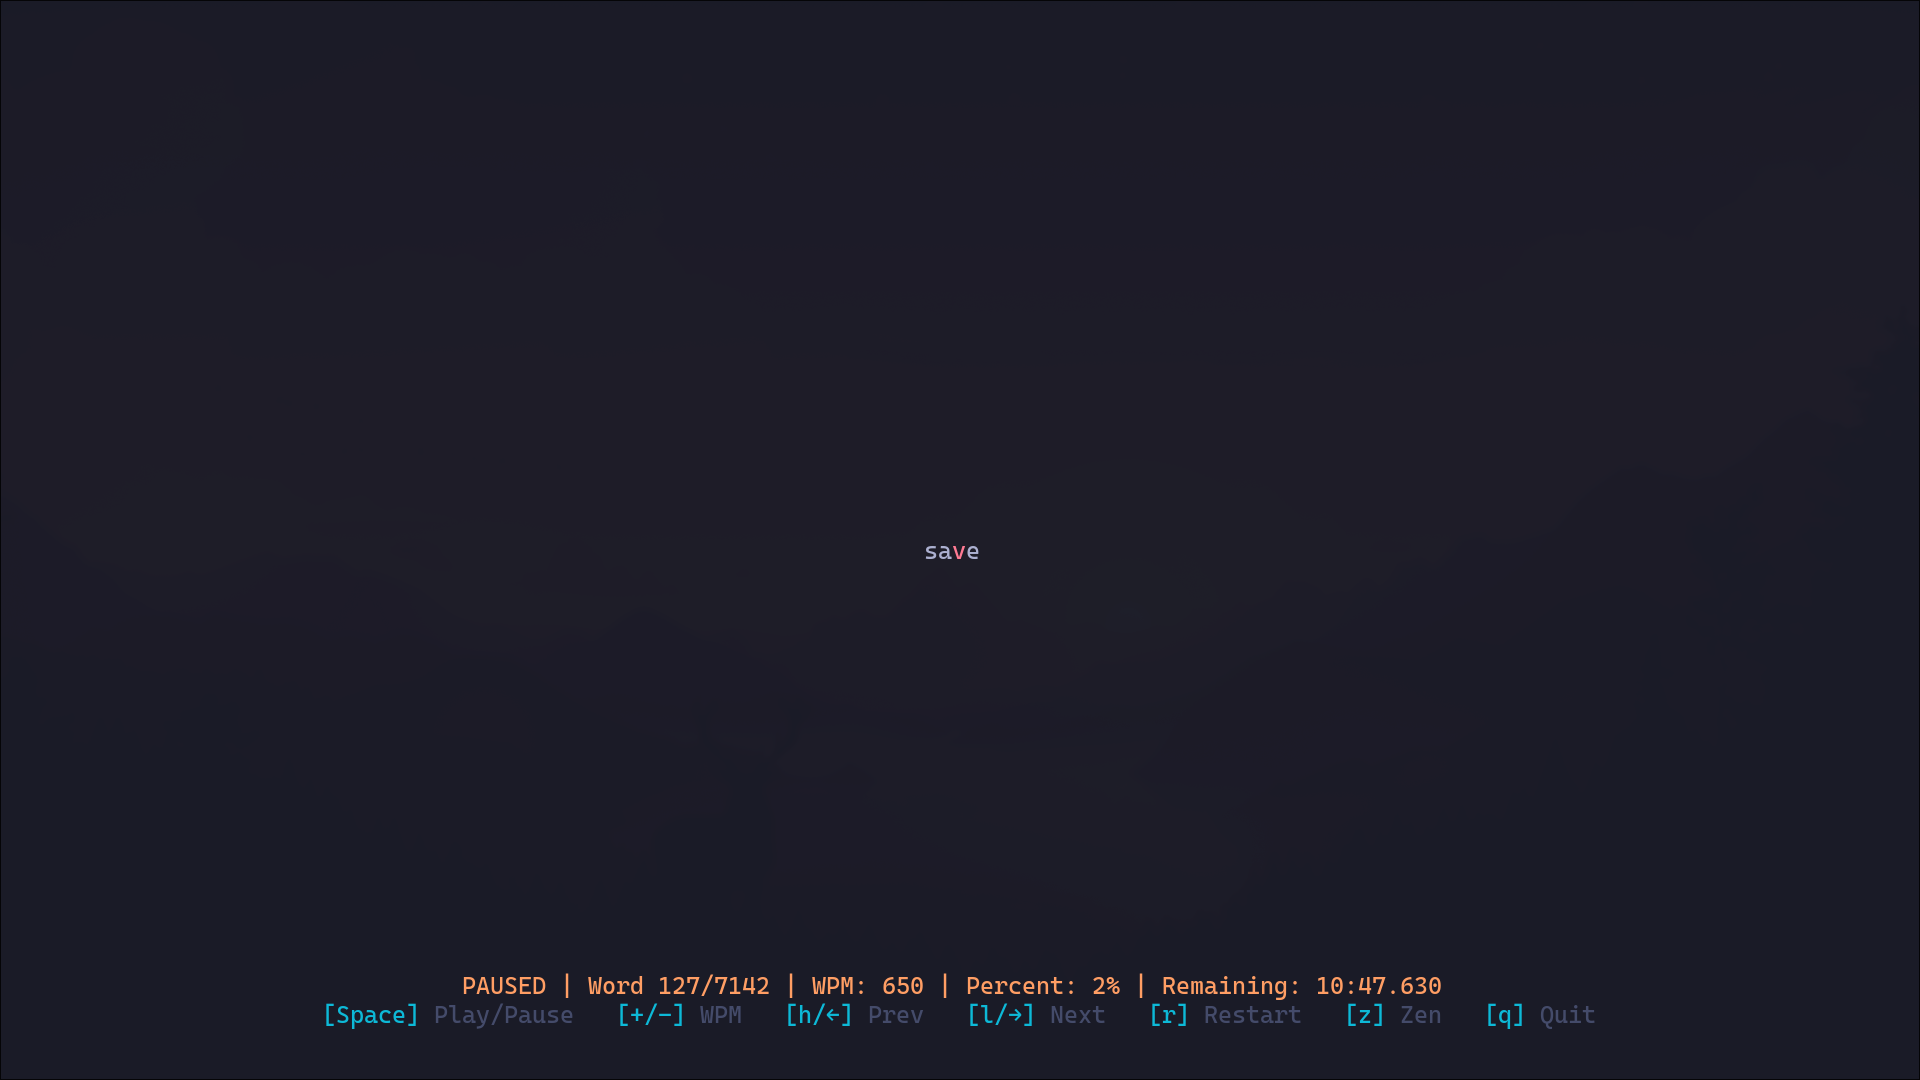
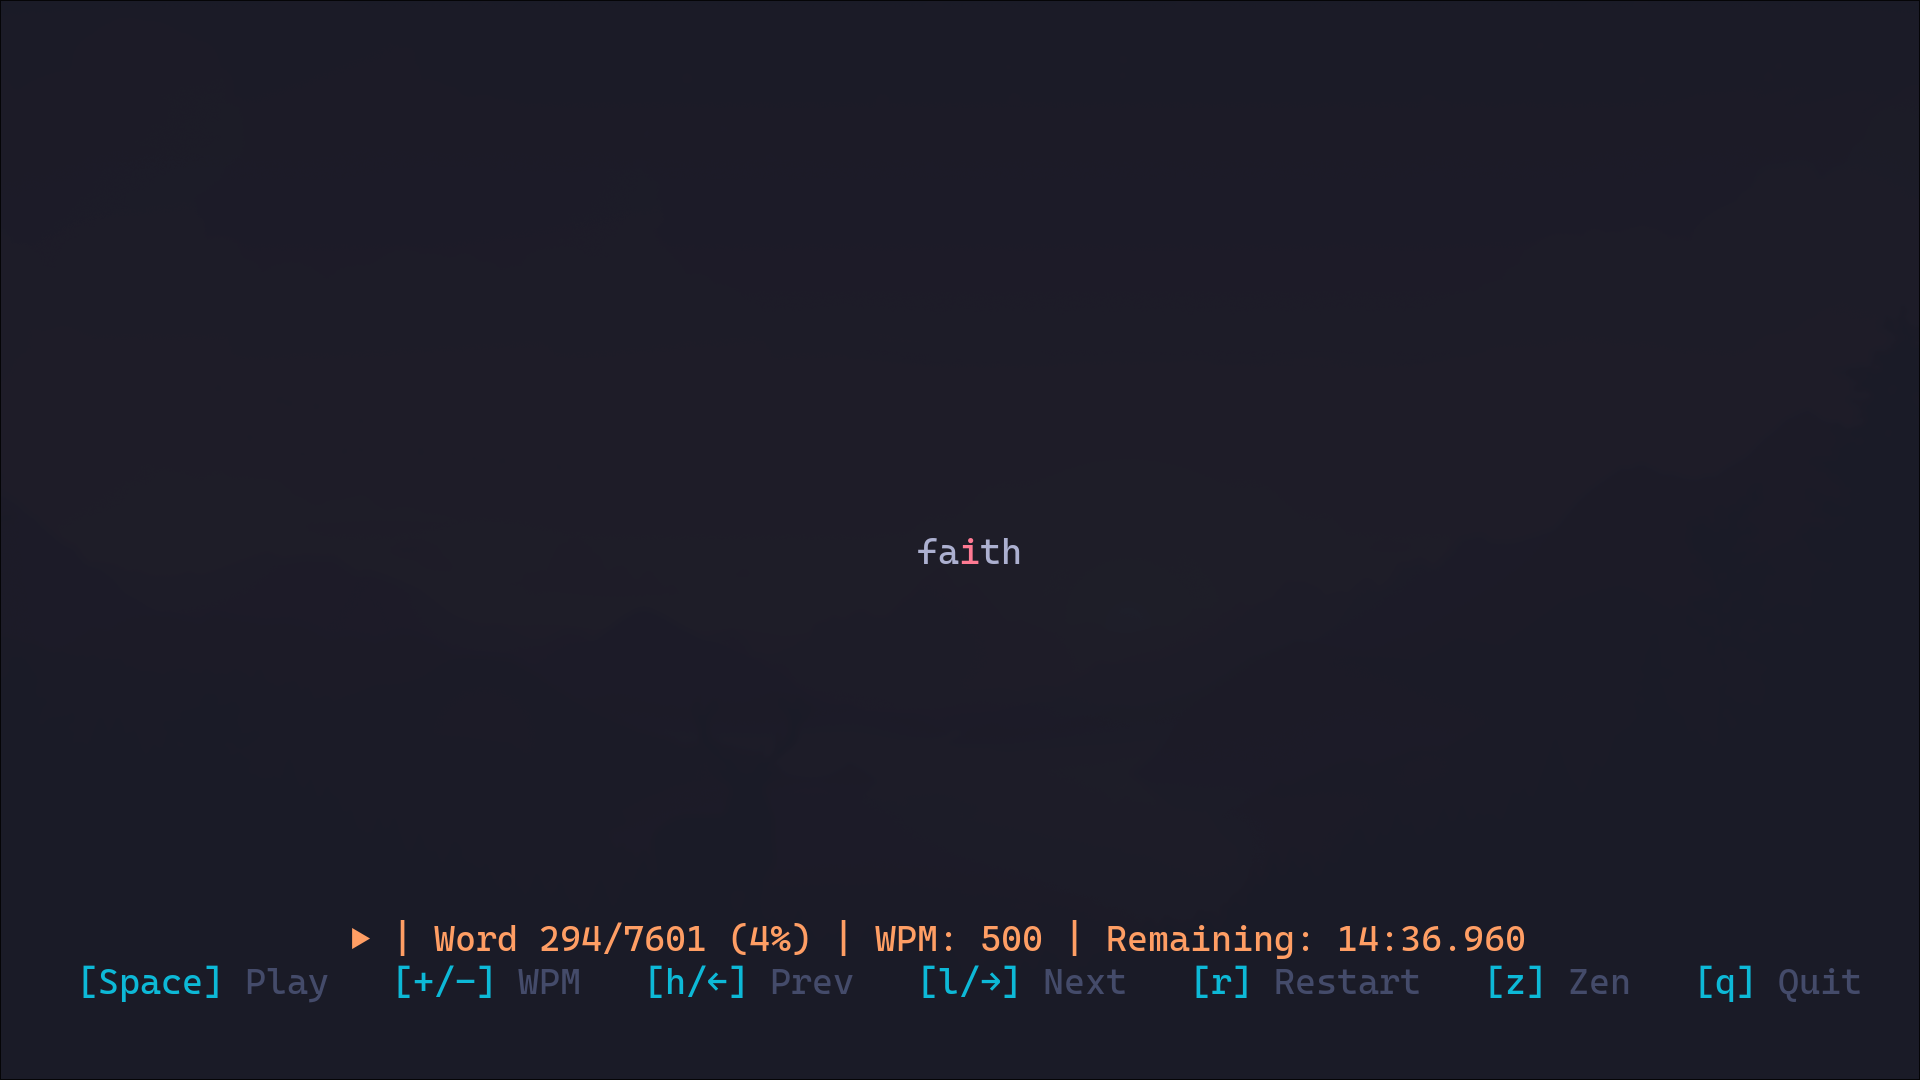
Updated status and readme

diff --git a/src/main.rs b/src/main.rs
@@ -133,16 +133,16 @@ impl SpeedReader {
         }
 
         if !self.hide_bar {
-            self.render_controls(width, height)?;
+            self.render_controls(width, height, self.is_paused)?;
         }
 
         io::stdout().flush()?;
         Ok(())
     }
 
-    fn render_controls(&self, width: u16, height: u16) -> Result<()> {
+    fn render_controls(&self, width: u16, height: u16, is_paused: bool) -> Result<()> {
         let controls = [
-            ("[Space]", "Play/Pause"),
+            ("[Space]", if is_paused { "Play" } else { "Pause" }),
             ("[+/-]", "WPM"),
             ("[h/←]", "Prev"),
             ("[l/→]", "Next"),
